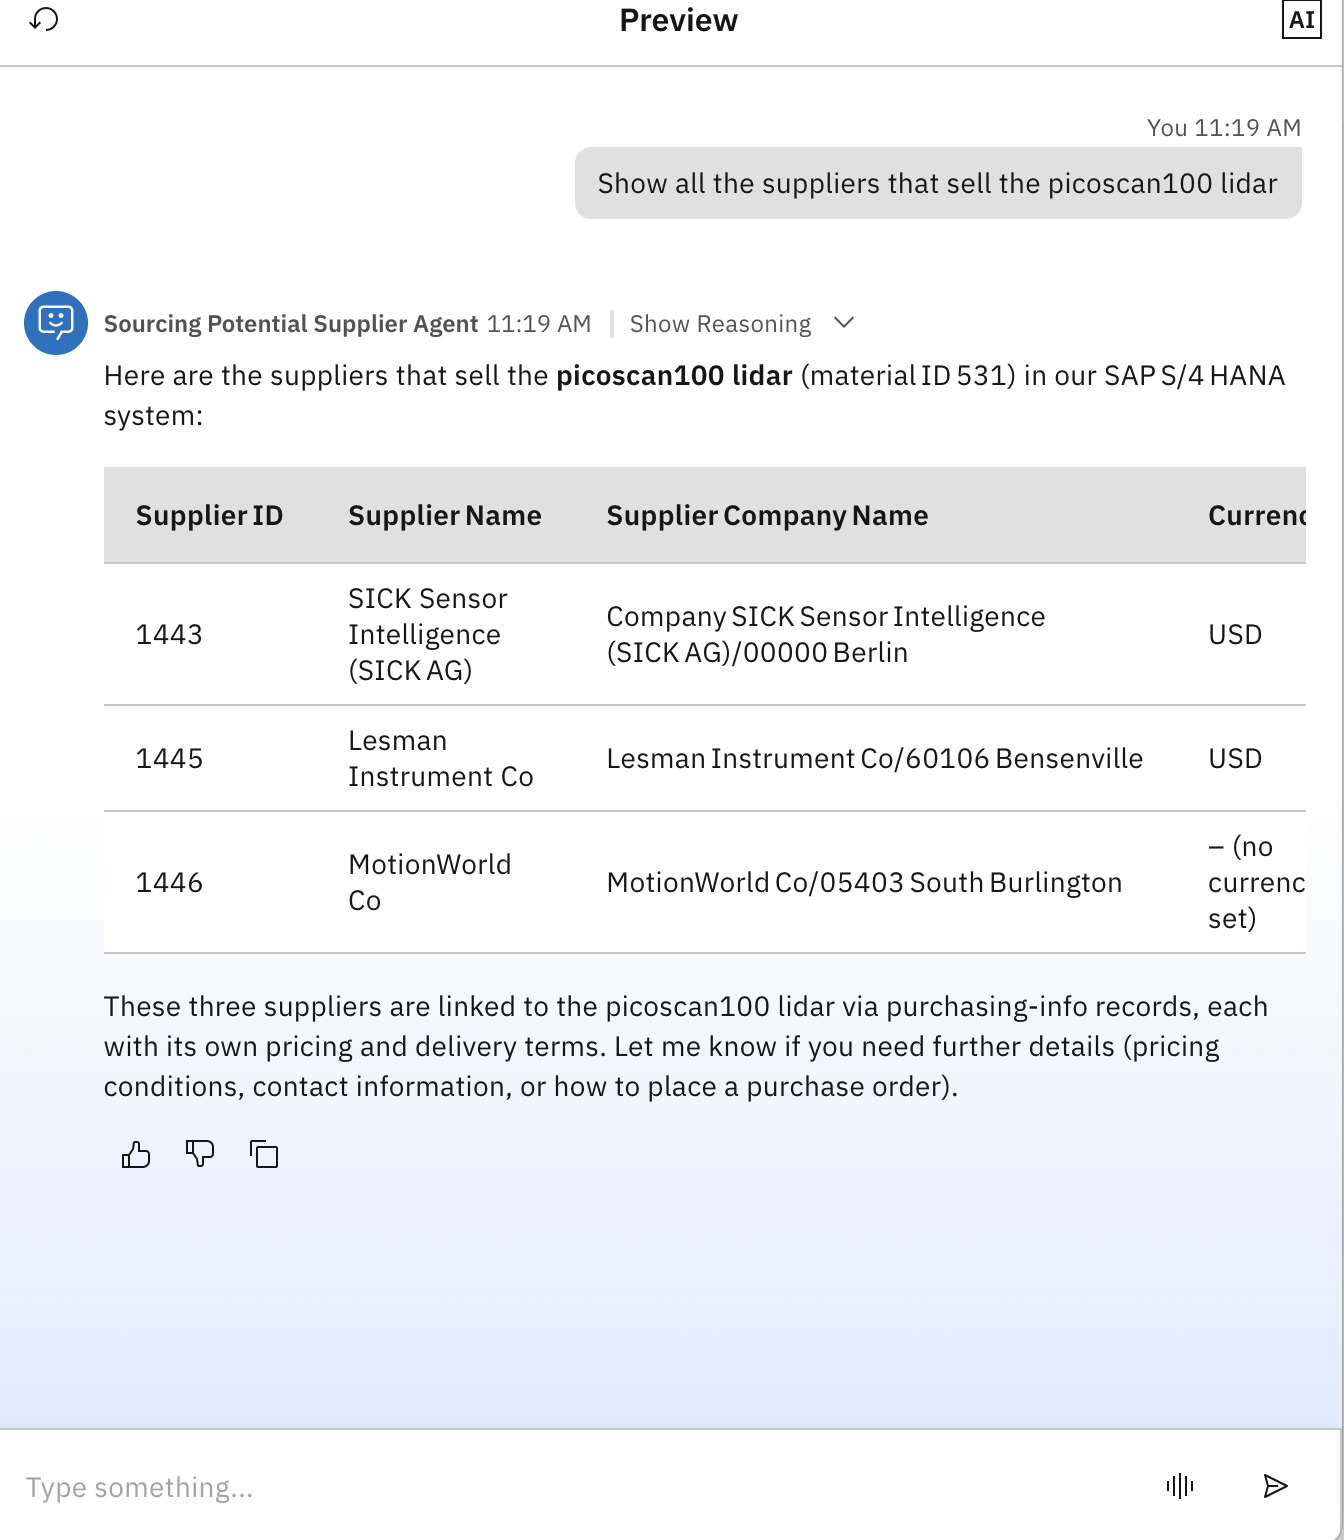
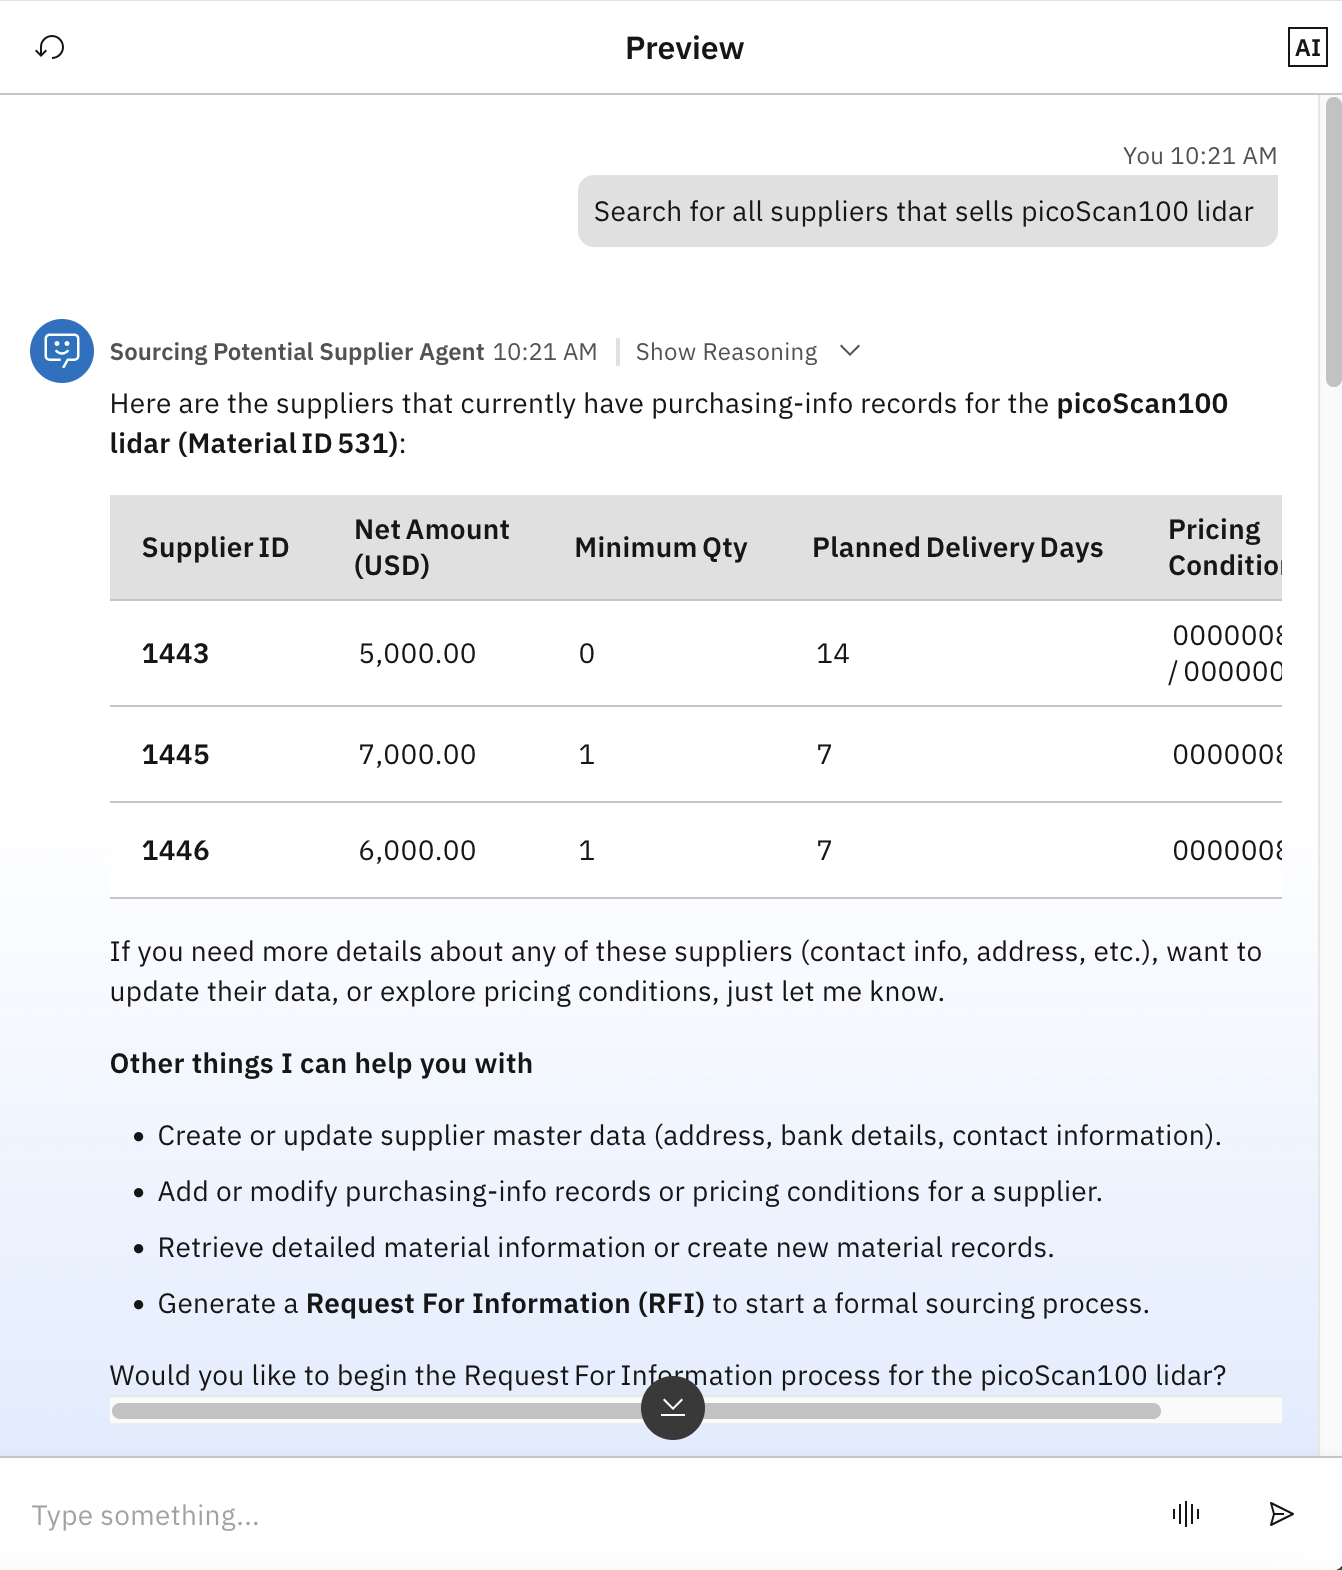
formatting changes

diff --git a/labs/Lab 1 - Sourcing Potential supplier/README.md b/labs/Lab 1 - Sourcing Potential supplier/README.md
@@ -2,7 +2,7 @@
 
 ## Table of Contents
 - [1. Introduction](#introduction)
-- [2. Accessing Watsonx Orchestrate UI](#accessing-ui)
+- [2. Accessing watsonx Orchestrate UI](#accessing-ui)
 - [3. Building the Potential Supplier Agent](#building-potential-supplier-agent)
     - [3.1 Catalog Management Agent](#catalog-management-agent)
     - [3.2 Supplier Management Agent](#supplier-management-agent)
@@ -20,11 +20,11 @@
 
 ![alt text](images/sourcing_supplier_architecture.png)
 
-This lab focuses on automating the process of sourcing potential suppliers using Watsonx Orchestrate. The goal is to optimize procurement decisions by leveraging AI-driven workflows and enterprise system integrations.
+This lab focuses on automating the process of sourcing potential suppliers using watsonx Orchestrate. The goal is to optimize procurement decisions by leveraging AI-driven workflows and enterprise system integrations.
 
 The specific scenario involves identifying the best supplier for a given product based on key factors such as **cost** and **delivery time**. These decisions are critical for ensuring timely procurement and cost efficiency in large-scale operations.
 
-In this lab, you will build an AI-powered agent within Watsonx Orchestrate that:
+In this lab, you will build an AI-powered agent within watsonx Orchestrate that:
 
 * Integrates with **SAP S/4HANA** using pre-built agents to access supplier data.
 * Retrieves and analyzes supplier information including pricing and delivery timelines.
@@ -42,7 +42,7 @@ By automating supplier sourcing, procurement teams can:
 
 
 <details open id="accessing-ui">
-<summary><h2>2. Accessing Watsonx Orchestrate UI</h2></summary>
+<summary><h2>2. Accessing watsonx Orchestrate UI</h2></summary>
 
 1. To access the watsonx Orchestrate console, go to the [Resources list on the IBM Cloud homepage](https://cloud.ibm.com/resources).
  ![alt text](images/img1.png)
@@ -82,7 +82,7 @@ Let us get started with building the child agents first.
 3. Since we will be using a pre built agent for this, select the **Choose from template** option.
     ![alt text](images/img6.png)
 
-4. This opens up the page which contains all the prebuilt agents available on Watsonx Orchestrate platform, Scroll to the Apps section from the left menu and search for `SAP`, From the filtered list select the **SAP S4 Hana** option as shown below
+4. This opens up the page which contains all the prebuilt agents available on watsonx Orchestrate platform, Scroll to the Apps section from the left menu and search for `SAP`, From the filtered list select the **SAP S4 Hana** option as shown below
     ![alt text](images/img7.png)
 
 5. Click on the **Catalog Management with S4 Hana**
@@ -214,10 +214,15 @@ We will now be adding the above two agents we had previously created as collabor
 ```
 **How To Route To Other Agents**
 You are a manager agent. You have other agents working under you.
-- When the users ask general information about companies and the risks associated with working with them use the dnb_supplier_research_agent to handle these questions.
 - When the users ask about available suppliers or wants to edit information (addresses, contact information, supplier details, etc.) for suppliers within the SAP S4 HANA procurement system use the sap_supplier_management_agent.
 - When the users ask about inventory items or materials, purchasing info records, or pricing conditions (such as creating, updating, or retrieving), and if user wants to get/list suppliers for a specific material, use the sap_catalog_management_agent to handle these requests.
 Your job is to delegate tasks to the most appropriate agent.
+
+Do not prompt to generate Purchase Order, instead, asks to generate Request For Information. Says, "In order to generate Purchase Order, it's recommended that you go through the Request For Information Process."
+
+Finally, suggest other options that you can do.
+
+Always end with asking if they want to start Request For Information Process
 ```
 
   ![alt text](images/img25.png)
@@ -238,9 +243,8 @@ Now we are all set to test our agent, to do so let start by chatting in the prev
 1. Begin the conversation by asking as below.
 
 ```
-Show all the suppliers that sell the picoscan100 lidar
+Search for all suppliers that sells picoScan100 lidar
 ```
- ![Agent Testing](images/img26.png)
 
 2. When we click on the individual steps we can see the observability of what is happening in the background and as you can see it is invoking the **sap_catalog_management_agent** which inturn invokes the tools integrated to it in the subsequent steps.
  ![Agent Testing](images/img27.png)
@@ -250,22 +254,27 @@ Show all the suppliers that sell the picoscan100 lidar
 
 4. Let us now try to get some reasoning and ask the agent to select the most appropriate supplier, enter the below question in the chat window.
 ```
-What's the supplier that offers best price at the earliest delivery date?
+Which supplier has the lower price point?
 ```
  ![Agent Testing](images/img29.png)
 
-5. You can now see the agent has chosen the supplier 1446 as the best supplier based on the provided contraints.
+5. Let us try adding more contraints to the query
+```
+What about supplier that has lower price point AND fastest delivery day?
+```
+
+6. You can now see the agent has chosen the supplier 1446 as the best supplier based on the provided contraints.
  ![Agent Testing](images/img30.png)
 
-6. Let us now try to gather more information about this supplier, try the below question
+7. Let us now try to gather more information about this supplier, try the below question
 ```
 Tell me more about the supplier 1446
 ```
 
-7. You can now see that the **sap_supplier_management_agent** is being invoked since this provides information related to the suppliers
+8. You can now see that the **sap_supplier_management_agent** is being invoked since this provides information related to the suppliers
  ![Agent Testing](images/img31.png)
 
-8. You can now finally see a detailed response for the supplier 1446.
+9. You can now finally see a detailed response for the supplier 1446.
  ![Agent Testing](images/img32.png)
 
 [← Back to Table of contents](#table-of-contents)
@@ -293,7 +302,7 @@ To deploy the Agent
 
 It make take a few seconds to complete the deployement process
 
-4. To test the agent from the AI Chat window, click on the hamburger menu in the top left corner and then click on Chat.
+4. To test the agent from the AI Chat window, click on the **☰** hamburger menu in the top left corner and then click on Chat.
 
   ![AI Chat](images/img36.png)
 
@@ -309,11 +318,11 @@ It make take a few seconds to complete the deployement process
 <details open id="summary">
 <summary><h2>6. Summary</h2></summary>
 
-In this lab, we successfully built an AI-powered agent in Watsonx Orchestrate designed to automate the process of sourcing potential suppliers. The agent was configured to integrate with **SAP S4 HANA** using pre-built agents, retrieve supplier and catalog data, and apply decision logic to recommend the most suitable supplier based on cost and delivery time.
+In this lab, we successfully built an AI-powered agent in watsonx Orchestrate designed to automate the process of sourcing potential suppliers. The agent was configured to integrate with **SAP S4 HANA** using pre-built agents, retrieve supplier and catalog data, and apply decision logic to recommend the most suitable supplier based on cost and delivery time.
 
 Throughout the lab, we accomplished the following key learning objectives:
 
-* Created a master agent in Watsonx Orchestrate to manage procurement workflows.
+* Created a master agent in watsonx Orchestrate to manage procurement workflows.
 * Integrated two pre-built collaborator agents:
   * **Catalog Management Agent** for material and pricing details.
   * **Supplier Management Agent** for supplier insights and contact information.

diff --git a/labs/Lab 2 - RFP Generation/README.md b/labs/Lab 2 - RFP Generation/README.md
@@ -24,11 +24,11 @@ Ensure you download these below files and keep them handy since we will be using
 
 ![alt text](images/rfp_architecture.png)
 
-This lab focuses on automating the creation of Request for Proposal (RFP) documents using Watsonx Orchestrate. The goal is to streamline procurement processes by leveraging AI-driven automation.
+This lab focuses on automating the creation of Request for Proposal (RFP) documents using watsonx Orchestrate. The goal is to streamline procurement processes by leveraging AI-driven automation.
 
 The specific scenario involves generating an RFP for LiDAR systems used in low-orbit satellites. These RFPs are critical for sourcing advanced LiDAR technology that meets stringent requirements for satellite operations.
 
-In this lab, you will build an AI-powered agent within Watsonx Orchestrate that:
+In this lab, you will build an AI-powered agent within watsonx Orchestrate that:
 
 * Adheres to a predefined RFP template.
 * Interacts with the user by asking key questions to gather necessary details.
@@ -47,7 +47,7 @@ By automating RFP generation, procurement teams can:
 <details open id="rfp-generation-agent">
 <summary><h2>2. RFP Generation Agent</h2></summary>
 
-We are now ready to get started with building the RFP Generation Agent. Since you are familiar with the UI of Orchestrate from your previous lab session, let us get straight into building the agent.
+We are now ready to get started with building the RFP Generation Agent. Since you are familiar with the UI of watsonx Orchestrate from your previous lab session, let us get straight into building the agent.
 
 <details open id="creating-the-agent">
 <summary><h3>2.1 Creating the Agent</h3></summary>
@@ -317,7 +317,7 @@ To deploy the RFP Generation Agent
 
 It make take a few seconds to complete the deployement process
 
-4. To test the agent from the AI Chat window, click on the hamburger menu in the top left corner and then click on Chat.
+4. To test the agent from the AI Chat window, click on the **☰** hamburger menu in the top left corner and then click on Chat.
 
   ![AI Chat](images/img29.png)
 
@@ -332,11 +332,11 @@ It make take a few seconds to complete the deployement process
 <details open id="summary">
 <summary><h2>5. Summary</h2></summary>
 
-In this lab, we successfully built an AI-powered agent in Watsonx Orchestrate designed to automate the generation of Request for Proposal (RFP) documents for LiDAR systems used in low-orbit satellites. The agent was configured to follow a predefined template, interact with users to collect essential details, and produce a downloadable RFP document in Microsoft Word (.docx) format.
+In this lab, we successfully built an AI-powered agent in watsonx Orchestrate designed to automate the generation of Request for Proposal (RFP) documents for LiDAR systems used in low-orbit satellites. The agent was configured to follow a predefined template, interact with users to collect essential details, and produce a downloadable RFP document in Microsoft Word (.docx) format.
 
 Throughout the lab, we accomplished the following key learning objectives:
 
-* Created a custom agent in Watsonx Orchestrate tailored for procurement workflows.
+* Created a custom agent in watsonx Orchestrate tailored for procurement workflows.
 * Integrated a tool into the agent to enable document generation capabilities.
 * Added a knowledge base to the agent, ensuring it could reference it as the template for the RFP document.
 

diff --git a/labs/Lab 3 - Order-to-Cash/README.md b/labs/Lab 3 - Order-to-Cash/README.md
@@ -3,7 +3,7 @@
 ## Table of Contents 
 
 - [1. Introduction](#introduction)
-- [2. Creating Agents in watsonX Orchestrate](#creating-agents-in-watsonx-orchestrate)
+- [2. Creating Agents in watsonx Orchestrate](#creating-agents-in-watsonx-orchestrate)
   - [2.1 Create Purchase Order Agent](#create-purchase-order-agent)
   - [2.2 Create Get Purchase Order Agent](#create-get-purchase-order-agent)
   - [2.3 Create Get Goods Receipts Agent](#create-get-goods-receipts-agent)
@@ -18,11 +18,11 @@
 
 ![Alt text for image](./screenshot_assets/order_to_cash_architecture.png)
 
-This lab focuses on automating the **Order to Cash (O2C)** process using Watsonx Orchestrate. The goal is to streamline procurement and financial workflows by leveraging AI-driven agents that integrate with enterprise systems like **SAP S4HANA**.
+This lab focuses on automating the **Order to Cash (O2C)** process using watsonx Orchestrate. The goal is to streamline procurement and financial workflows by leveraging AI-driven agents that integrate with enterprise systems like **SAP S4HANA**.
 
 The specific scenario involves performing a **three-way match** between **Purchase Order**, **Supplier Invoice**, and **Goods Receipt** to validate invoices and ensure compliance. This is a critical step in the O2C cycle for preventing payment errors and maintaining financial integrity.
 
-We will build a multi-agent solution within Watsonx Orchestrate that:
+We will build a multi-agent solution within watsonx Orchestrate that:
 
 * Creates purchase orders and retrieves their details from SAP S/4HANA.
 * Extracts goods receipt data and links it to the corresponding purchase order.
@@ -40,7 +40,7 @@ By automating the O2C validation process, procurement and finance teams can:
 
 
 <details open id="creating-agents-in-watsonx-orchestrate">
-<summary><h2>2. Creating Agents in watsonX Orchestrate</h2></summary>
+<summary><h2>2. Creating Agents in watsonx Orchestrate</h2></summary>
 
 We will be creating 4 agents as part of this lab
 
@@ -539,7 +539,7 @@ Reason = "PO and Invoice prices do not match."
 <details open id="testing-create-purchase-agent">
 <summary><h3>3.1 Testing Create Purchase Order Agent</h3></summary>
 
-1. Navigate to the hamburger menu and click on **Chat**.
+1. Navigate to the **☰** hamburger menu and click on **Chat**.
 
 ![Alt text for image](./screenshot_assets/O2C_Validation_Agent/11.png)
 
@@ -597,7 +597,7 @@ The purchase order ID is 4500002135.
 <details open id="summary">
 <summary><h2>4. Summary</h2></summary>
 
-In this lab, we successfully built an AI-powered multi-agent solution in Watsonx Orchestrate to automate the **Order to Cash validation process**. The solution was designed to integrate with SAP S/4HANA, retrieve purchase order and goods receipt data, and validate invoices through a strict **three-way matching** process, as illustrated in the architecture diagram.
+In this lab, we successfully built an AI-powered multi-agent solution in watsonx Orchestrate to automate the **Order to Cash validation process**. The solution was designed to integrate with SAP S/4HANA, retrieve purchase order and goods receipt data, and validate invoices through a strict **three-way matching** process, as illustrated in the architecture diagram.
 
 Throughout the lab, we accomplished the following key learning objectives:
 

diff --git a/README.md b/README.md
@@ -62,6 +62,8 @@ Please find the step-by-step instructions here on how you can implement these us
 ## 🧩 Credits
 <details><summary>IBM Client Engineering Team</summary>
 
+#### Business Technical Leader 
+* Orion Krawitt
 
 #### Instructors
 * Pengxiang Xu
